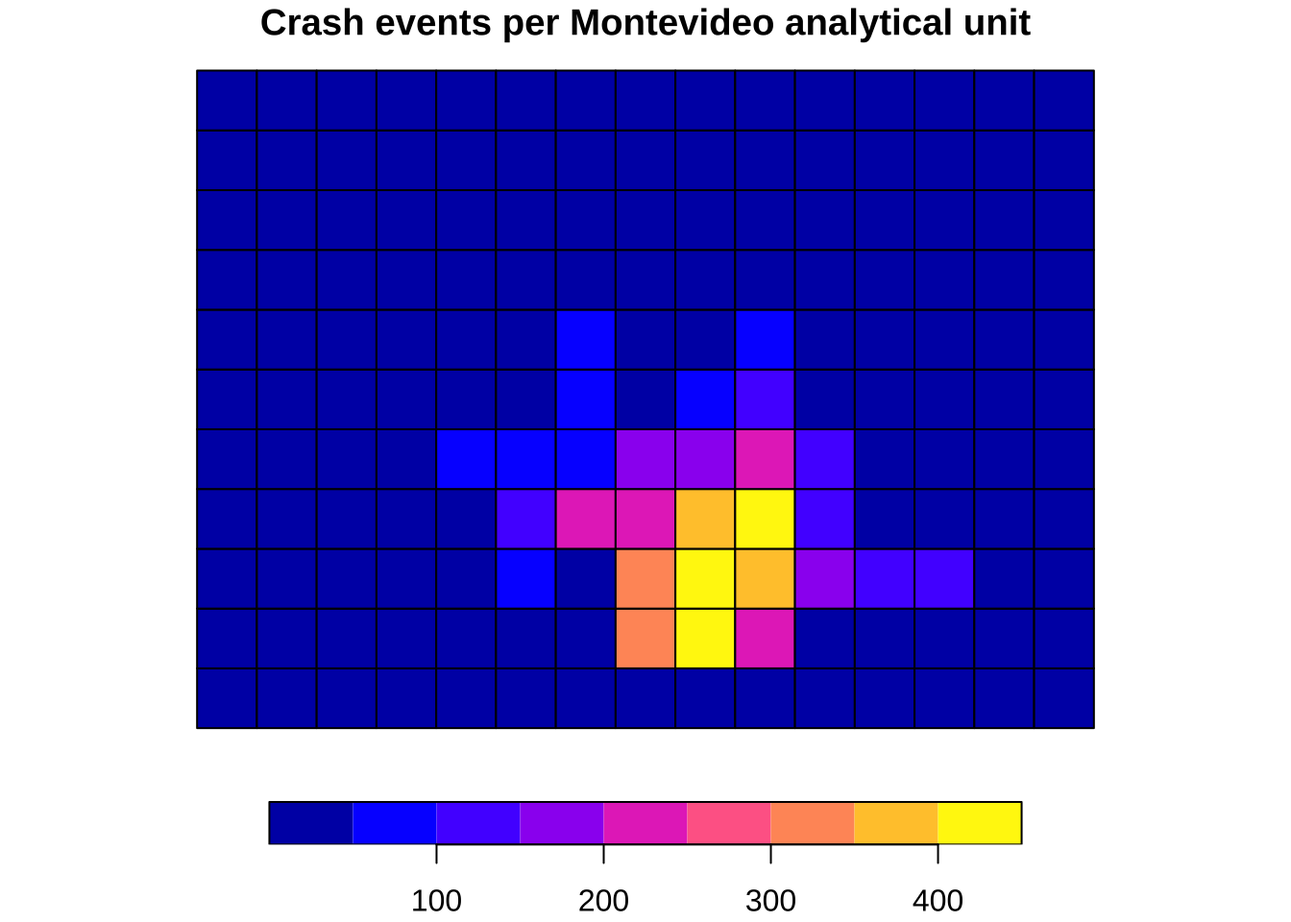
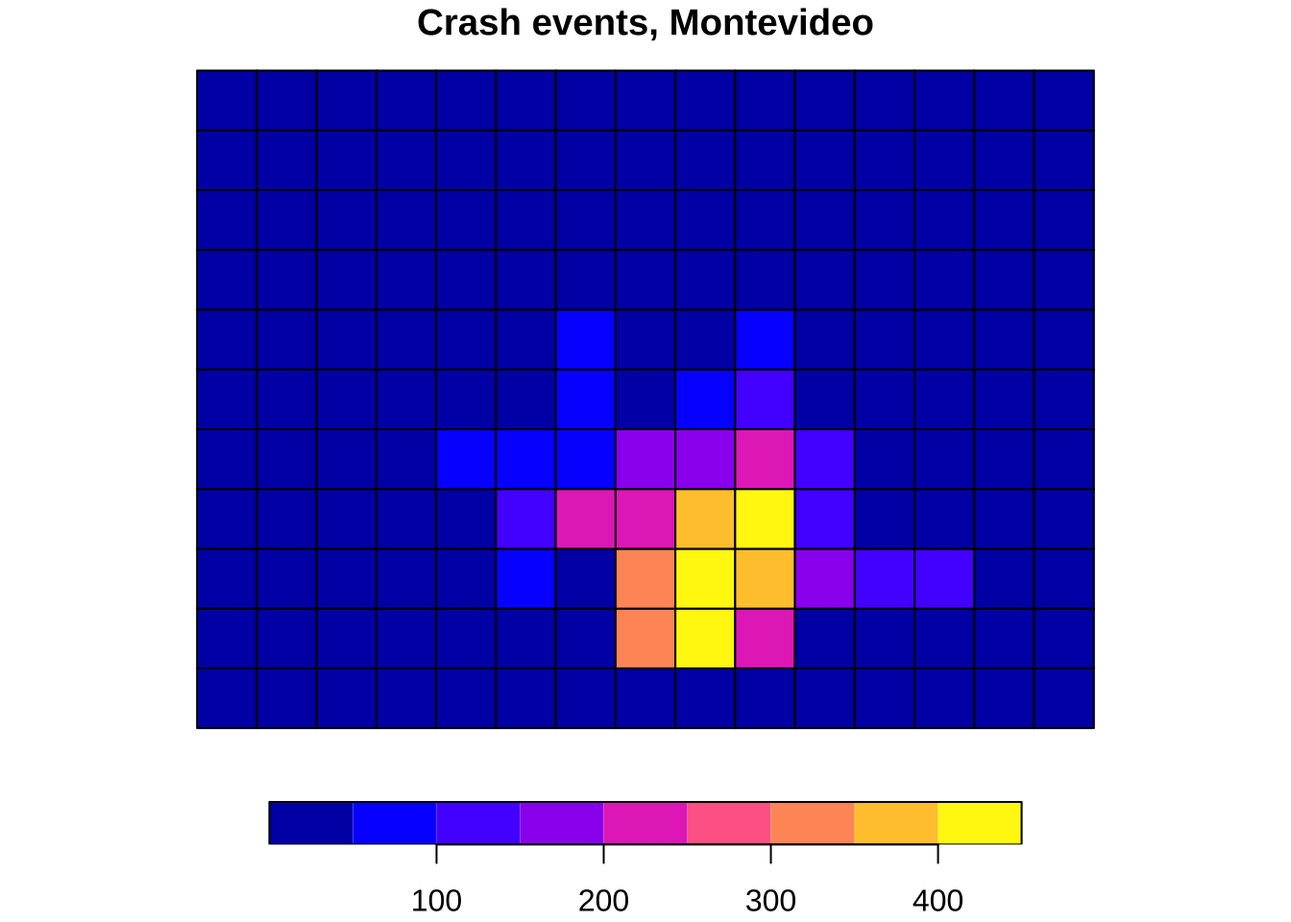
Refresh spatial data wrangling chapter output

Changed region(s): [[0.1875, 0.0, 0.8125, 0.0625]]

diff --git a/docs/02-spatial-data-wrangling.html b/docs/02-spatial-data-wrangling.html
@@ -964,7 +964,7 @@ was `within'
 </div>
 </div>
 <p>This example is deliberately basic. But it introduces the logic behind many later tasks, such as assigning point records to areas, building polygon summaries and preparing mapped indicators. You will also find the same ideas in choropleth preparation, exposure modelling, area interpolation and many forms of spatial smoothing. The exact technique may change, but the workflow of defining a geography, attaching observations and summarising attributes is foundational.</p>
-<p>The choice of unit size still matters. Smaller polygon units reveal more local variation but can create many sparse areas and a noisier pattern. Larger units smooth the data more strongly and may hide local concentration. This is a useful early reminder that spatial wrangling is never only technical. Choices about representation and aggregation shape the patterns that we later describe and explain. The same is true of the attribute we choose to map. Raw crash counts and crashes per kilometre of road are both informative, but they answer slightly different questions.</p>
+<p>The choice of unit size still matters. Smaller polygon units reveal more local variation but can create many sparse areas and a noisier pattern. Larger units smooth the data more strongly and may hide local concentration. This is a useful early reminder that spatial wrangling is never only technical. Choices about representation and aggregation shape the patterns that we later describe and explain. The same is true of the attribute we choose to map. Raw crash counts and crashes per kilometre of road are both informative, but they answer slightly different questions. In the next three examples, we keep the mapped variable fixed as raw crash counts so the comparison is about the mapping systems rather than about a changing indicator.</p>
 </section><section id="spatial-data-mapping" class="level2" data-number="2.12"><h2 data-number="2.12" class="anchored" data-anchor-id="spatial-data-mapping">
 <span class="header-section-number">2.12</span> Spatial data mapping</h2>
 <p>The same spatial object can be mapped at different levels of sophistication. A useful progression in applied work is:</p>
@@ -980,7 +980,7 @@ was `within'
 <span class="header-section-number">2.12.1</span> A quick base plot</h3>
 <p>Base plotting is ideal for first inspection because it is fast and requires little setup. In practical workflows, this matters because many maps are made first to check geometry, extent, missing values or obvious outliers rather than to communicate final results. Quick plotting is therefore part of good analysis, not a lesser version of “real” mapping.</p>
 <div class="cell">
-<div class="code-copy-outer-scaffold"><div class="sourceCode" id="cb58"><pre class="downlit sourceCode r code-with-copy"><code class="sourceCode R"><span><span class="fu"><a href="https://rdrr.io/r/graphics/plot.default.html">plot</a></span><span class="op">(</span><span class="va">analysis_units</span><span class="op">[</span><span class="st">"n_injuries"</span><span class="op">]</span>, key.pos <span class="op">=</span> <span class="fl">1</span>, main <span class="op">=</span> <span class="st">"Crash events per Montevideo analytical unit"</span><span class="op">)</span></span></code></pre></div><button title="Copy to Clipboard" class="code-copy-button"><i class="bi"></i></button></div>
+<div class="code-copy-outer-scaffold"><div class="sourceCode" id="cb58"><pre class="downlit sourceCode r code-with-copy"><code class="sourceCode R"><span><span class="fu"><a href="https://rdrr.io/r/graphics/plot.default.html">plot</a></span><span class="op">(</span><span class="va">analysis_units</span><span class="op">[</span><span class="st">"n_injuries"</span><span class="op">]</span>, key.pos <span class="op">=</span> <span class="fl">1</span>, main <span class="op">=</span> <span class="st">"Crash events, Montevideo"</span><span class="op">)</span></span></code></pre></div><button title="Copy to Clipboard" class="code-copy-button"><i class="bi"></i></button></div>
 <div class="cell-output-display">
 <div>
 <figure class="figure"><p><img src="02-spatial-data-wrangling_files/figure-html/unnamed-chunk-21-1.png" class="img-fluid figure-img" width="672"></p>
@@ -997,10 +997,10 @@ was `within'
 <span></span>
 <span><span class="fu"><a href="https://r-tmap.github.io/tmap/reference/tm_shape.html">tm_shape</a></span><span class="op">(</span><span class="va">analysis_units</span><span class="op">)</span> <span class="op">+</span></span>
 <span>  <span class="fu"><a href="https://r-tmap.github.io/tmap/reference/tm_polygons.html">tm_fill</a></span><span class="op">(</span></span>
-<span>    col <span class="op">=</span> <span class="st">"injuries_per_km"</span>,</span>
+<span>    col <span class="op">=</span> <span class="st">"n_injuries"</span>,</span>
 <span>    palette <span class="op">=</span> <span class="st">"viridis"</span>,</span>
 <span>    style <span class="op">=</span> <span class="st">"cont"</span>,</span>
-<span>    title <span class="op">=</span> <span class="st">"Crashes per km"</span></span>
+<span>    title <span class="op">=</span> <span class="st">"Crash events"</span></span>
 <span>  <span class="op">)</span> <span class="op">+</span></span>
 <span>  <span class="fu"><a href="https://r-tmap.github.io/tmap/reference/tm_polygons.html">tm_borders</a></span><span class="op">(</span>col <span class="op">=</span> <span class="st">"white"</span>, lwd <span class="op">=</span> <span class="fl">0.4</span><span class="op">)</span> <span class="op">+</span></span>
 <span>  <span class="fu"><a href="https://r-tmap.github.io/tmap/reference/tm_layout.html">tm_layout</a></span><span class="op">(</span>frame <span class="op">=</span> <span class="cn">FALSE</span><span class="op">)</span></span></code></pre></div><button title="Copy to Clipboard" class="code-copy-button"><i class="bi"></i></button></div>
@@ -1020,14 +1020,13 @@ was `within'
 <span></span>
 <span><span class="fu"><a href="https://ggplot2.tidyverse.org/reference/ggplot.html">ggplot</a></span><span class="op">(</span><span class="op">)</span> <span class="op">+</span></span>
 <span>  <span class="co"># Fill polygons with a sequential palette from the shared course style</span></span>
-<span>  <span class="fu"><a href="https://ggplot2.tidyverse.org/reference/ggsf.html">geom_sf</a></span><span class="op">(</span>data <span class="op">=</span> <span class="va">analysis_units_ll</span>, <span class="fu"><a href="https://ggplot2.tidyverse.org/reference/aes.html">aes</a></span><span class="op">(</span>fill <span class="op">=</span> <span class="va">injuries_per_km</span><span class="op">)</span>, colour <span class="op">=</span> <span class="cn">NA</span><span class="op">)</span> <span class="op">+</span></span>
+<span>  <span class="fu"><a href="https://ggplot2.tidyverse.org/reference/ggsf.html">geom_sf</a></span><span class="op">(</span>data <span class="op">=</span> <span class="va">analysis_units_ll</span>, <span class="fu"><a href="https://ggplot2.tidyverse.org/reference/aes.html">aes</a></span><span class="op">(</span>fill <span class="op">=</span> <span class="va">n_injuries</span><span class="op">)</span>, colour <span class="op">=</span> <span class="cn">NA</span><span class="op">)</span> <span class="op">+</span></span>
 <span>  <span class="co"># Add the road network to keep the analytical units in local context</span></span>
-<span>  <span class="fu"><a href="https://ggplot2.tidyverse.org/reference/ggsf.html">geom_sf</a></span><span class="op">(</span>data <span class="op">=</span> <span class="va">roads</span>, colour <span class="op">=</span> <span class="st">"grey50"</span>, linewidth <span class="op">=</span> <span class="fl">0.15</span>, alpha <span class="op">=</span> <span class="fl">0.5</span><span class="op">)</span> <span class="op">+</span></span>
+<span>  <span class="fu"><a href="https://ggplot2.tidyverse.org/reference/ggsf.html">geom_sf</a></span><span class="op">(</span>data <span class="op">=</span> <span class="va">roads</span>, colour <span class="op">=</span> <span class="st">"grey50"</span>, linewidth <span class="op">=</span> <span class="fl">0.15</span>, alpha <span class="op">=</span> <span class="fl">0.35</span><span class="op">)</span> <span class="op">+</span></span>
 <span>  <span class="fu"><a href="https://ggplot2.tidyverse.org/reference/ggsf.html">coord_sf</a></span><span class="op">(</span>expand <span class="op">=</span> <span class="cn">FALSE</span><span class="op">)</span> <span class="op">+</span></span>
-<span>  <span class="fu">scale_fill_course_seq_c</span><span class="op">(</span>name <span class="op">=</span> <span class="st">"Crashes per km"</span><span class="op">)</span> <span class="op">+</span></span>
+<span>  <span class="fu">scale_fill_course_seq_c</span><span class="op">(</span>name <span class="op">=</span> <span class="st">"Crash events"</span><span class="op">)</span> <span class="op">+</span></span>
 <span>  <span class="fu"><a href="https://ggplot2.tidyverse.org/reference/labs.html">labs</a></span><span class="op">(</span></span>
-<span>    title <span class="op">=</span> <span class="st">"Montevideo crash events aggregated to analytical units"</span>,</span>
-<span>    subtitle <span class="op">=</span> <span class="st">"Crash counts standardised by local road length"</span></span>
+<span>    title <span class="op">=</span> <span class="st">"Crash events, Montevideo"</span>,</span>
 <span>  <span class="op">)</span> <span class="op">+</span></span>
 <span>  <span class="fu">theme_map_course</span><span class="op">(</span><span class="op">)</span> <span class="op">+</span></span>
 <span>  <span class="fu"><a href="https://ggplot2.tidyverse.org/reference/theme.html">theme</a></span><span class="op">(</span></span>
@@ -2024,7 +2023,7 @@ Lovelace, Robin, Jakub Nowosad, and Jannes Muenchow. 2019. <em>Geocomputation wi
 <span id="cb61-521"><a href="#cb61-521" aria-hidden="true" tabindex="-1"></a></span>
 <span id="cb61-522"><a href="#cb61-522" aria-hidden="true" tabindex="-1"></a>This example is deliberately basic. But it introduces the logic behind many later tasks, such as assigning point records to areas, building polygon summaries and preparing mapped indicators. You will also find the same ideas in choropleth preparation, exposure modelling, area interpolation and many forms of spatial smoothing. The exact technique may change, but the workflow of defining a geography, attaching observations and summarising attributes is foundational.</span>
 <span id="cb61-523"><a href="#cb61-523" aria-hidden="true" tabindex="-1"></a></span>
-<span id="cb61-524"><a href="#cb61-524" aria-hidden="true" tabindex="-1"></a>The choice of unit size still matters. Smaller polygon units reveal more local variation but can create many sparse areas and a noisier pattern. Larger units smooth the data more strongly and may hide local concentration. This is a useful early reminder that spatial wrangling is never only technical. Choices about representation and aggregation shape the patterns that we later describe and explain. The same is true of the attribute we choose to map. Raw crash counts and crashes per kilometre of road are both informative, but they answer slightly different questions.</span>
+<span id="cb61-524"><a href="#cb61-524" aria-hidden="true" tabindex="-1"></a>The choice of unit size still matters. Smaller polygon units reveal more local variation but can create many sparse areas and a noisier pattern. Larger units smooth the data more strongly and may hide local concentration. This is a useful early reminder that spatial wrangling is never only technical. Choices about representation and aggregation shape the patterns that we later describe and explain. The same is true of the attribute we choose to map. Raw crash counts and crashes per kilometre of road are both informative, but they answer slightly different questions. In the next three examples, we keep the mapped variable fixed as raw crash counts so the comparison is about the mapping systems rather than about a changing indicator.</span>
 <span id="cb61-525"><a href="#cb61-525" aria-hidden="true" tabindex="-1"></a></span>
 <span id="cb61-526"><a href="#cb61-526" aria-hidden="true" tabindex="-1"></a><span class="fu">## Spatial data mapping</span></span>
 <span id="cb61-527"><a href="#cb61-527" aria-hidden="true" tabindex="-1"></a></span>
@@ -2039,7 +2038,7 @@ Lovelace, Robin, Jakub Nowosad, and Jannes Muenchow. 2019. <em>Geocomputation wi
 <span id="cb61-536"><a href="#cb61-536" aria-hidden="true" tabindex="-1"></a>Base plotting is ideal for first inspection because it is fast and requires little setup. In practical workflows, this matters because many maps are made first to check geometry, extent, missing values or obvious outliers rather than to communicate final results. Quick plotting is therefore part of good analysis, not a lesser version of “real” mapping.</span>
 <span id="cb61-537"><a href="#cb61-537" aria-hidden="true" tabindex="-1"></a></span>
 <span id="cb61-540"><a href="#cb61-540" aria-hidden="true" tabindex="-1"></a><span class="in">```{r}</span></span>
-<span id="cb61-541"><a href="#cb61-541" aria-hidden="true" tabindex="-1"></a><span class="fu">plot</span>(analysis_units[<span class="st">"n_injuries"</span>], <span class="at">key.pos =</span> <span class="dv">1</span>, <span class="at">main =</span> <span class="st">"Crash events per Montevideo analytical unit"</span>)</span>
+<span id="cb61-541"><a href="#cb61-541" aria-hidden="true" tabindex="-1"></a><span class="fu">plot</span>(analysis_units[<span class="st">"n_injuries"</span>], <span class="at">key.pos =</span> <span class="dv">1</span>, <span class="at">main =</span> <span class="st">"Crash events, Montevideo"</span>)</span>
 <span id="cb61-542"><a href="#cb61-542" aria-hidden="true" tabindex="-1"></a><span class="in">```</span></span>
 <span id="cb61-543"><a href="#cb61-543" aria-hidden="true" tabindex="-1"></a></span>
 <span id="cb61-544"><a href="#cb61-544" aria-hidden="true" tabindex="-1"></a><span class="fu">### A thematic map with `tmap`</span></span>
@@ -2051,10 +2050,10 @@ Lovelace, Robin, Jakub Nowosad, and Jannes Muenchow. 2019. <em>Geocomputation wi
 <span id="cb61-552"><a href="#cb61-552" aria-hidden="true" tabindex="-1"></a></span>
 <span id="cb61-553"><a href="#cb61-553" aria-hidden="true" tabindex="-1"></a><span class="fu">tm_shape</span>(analysis_units) <span class="sc">+</span></span>
 <span id="cb61-554"><a href="#cb61-554" aria-hidden="true" tabindex="-1"></a>  <span class="fu">tm_fill</span>(</span>
-<span id="cb61-555"><a href="#cb61-555" aria-hidden="true" tabindex="-1"></a>    <span class="at">col =</span> <span class="st">"injuries_per_km"</span>,</span>
+<span id="cb61-555"><a href="#cb61-555" aria-hidden="true" tabindex="-1"></a>    <span class="at">col =</span> <span class="st">"n_injuries"</span>,</span>
 <span id="cb61-556"><a href="#cb61-556" aria-hidden="true" tabindex="-1"></a>    <span class="at">palette =</span> <span class="st">"viridis"</span>,</span>
 <span id="cb61-557"><a href="#cb61-557" aria-hidden="true" tabindex="-1"></a>    <span class="at">style =</span> <span class="st">"cont"</span>,</span>
-<span id="cb61-558"><a href="#cb61-558" aria-hidden="true" tabindex="-1"></a>    <span class="at">title =</span> <span class="st">"Crashes per km"</span></span>
+<span id="cb61-558"><a href="#cb61-558" aria-hidden="true" tabindex="-1"></a>    <span class="at">title =</span> <span class="st">"Crash events"</span></span>
 <span id="cb61-559"><a href="#cb61-559" aria-hidden="true" tabindex="-1"></a>  ) <span class="sc">+</span></span>
 <span id="cb61-560"><a href="#cb61-560" aria-hidden="true" tabindex="-1"></a>  <span class="fu">tm_borders</span>(<span class="at">col =</span> <span class="st">"white"</span>, <span class="at">lwd =</span> <span class="fl">0.4</span>) <span class="sc">+</span></span>
 <span id="cb61-561"><a href="#cb61-561" aria-hidden="true" tabindex="-1"></a>  <span class="fu">tm_layout</span>(<span class="at">frame =</span> <span class="cn">FALSE</span>)</span>
@@ -2069,50 +2068,49 @@ Lovelace, Robin, Jakub Nowosad, and Jannes Muenchow. 2019. <em>Geocomputation wi
 <span id="cb61-572"><a href="#cb61-572" aria-hidden="true" tabindex="-1"></a></span>
 <span id="cb61-573"><a href="#cb61-573" aria-hidden="true" tabindex="-1"></a><span class="fu">ggplot</span>() <span class="sc">+</span></span>
 <span id="cb61-574"><a href="#cb61-574" aria-hidden="true" tabindex="-1"></a>  <span class="co"># Fill polygons with a sequential palette from the shared course style</span></span>
-<span id="cb61-575"><a href="#cb61-575" aria-hidden="true" tabindex="-1"></a>  <span class="fu">geom_sf</span>(<span class="at">data =</span> analysis_units_ll, <span class="fu">aes</span>(<span class="at">fill =</span> injuries_per_km), <span class="at">colour =</span> <span class="cn">NA</span>) <span class="sc">+</span></span>
+<span id="cb61-575"><a href="#cb61-575" aria-hidden="true" tabindex="-1"></a>  <span class="fu">geom_sf</span>(<span class="at">data =</span> analysis_units_ll, <span class="fu">aes</span>(<span class="at">fill =</span> n_injuries), <span class="at">colour =</span> <span class="cn">NA</span>) <span class="sc">+</span></span>
 <span id="cb61-576"><a href="#cb61-576" aria-hidden="true" tabindex="-1"></a>  <span class="co"># Add the road network to keep the analytical units in local context</span></span>
-<span id="cb61-577"><a href="#cb61-577" aria-hidden="true" tabindex="-1"></a>  <span class="fu">geom_sf</span>(<span class="at">data =</span> roads, <span class="at">colour =</span> <span class="st">"grey50"</span>, <span class="at">linewidth =</span> <span class="fl">0.15</span>, <span class="at">alpha =</span> <span class="fl">0.5</span>) <span class="sc">+</span></span>
+<span id="cb61-577"><a href="#cb61-577" aria-hidden="true" tabindex="-1"></a>  <span class="fu">geom_sf</span>(<span class="at">data =</span> roads, <span class="at">colour =</span> <span class="st">"grey50"</span>, <span class="at">linewidth =</span> <span class="fl">0.15</span>, <span class="at">alpha =</span> <span class="fl">0.35</span>) <span class="sc">+</span></span>
 <span id="cb61-578"><a href="#cb61-578" aria-hidden="true" tabindex="-1"></a>  <span class="fu">coord_sf</span>(<span class="at">expand =</span> <span class="cn">FALSE</span>) <span class="sc">+</span></span>
-<span id="cb61-579"><a href="#cb61-579" aria-hidden="true" tabindex="-1"></a>  <span class="fu">scale_fill_course_seq_c</span>(<span class="at">name =</span> <span class="st">"Crashes per km"</span>) <span class="sc">+</span></span>
+<span id="cb61-579"><a href="#cb61-579" aria-hidden="true" tabindex="-1"></a>  <span class="fu">scale_fill_course_seq_c</span>(<span class="at">name =</span> <span class="st">"Crash events"</span>) <span class="sc">+</span></span>
 <span id="cb61-580"><a href="#cb61-580" aria-hidden="true" tabindex="-1"></a>  <span class="fu">labs</span>(</span>
-<span id="cb61-581"><a href="#cb61-581" aria-hidden="true" tabindex="-1"></a>    <span class="at">title =</span> <span class="st">"Montevideo crash events aggregated to analytical units"</span>,</span>
-<span id="cb61-582"><a href="#cb61-582" aria-hidden="true" tabindex="-1"></a>    <span class="at">subtitle =</span> <span class="st">"Crash counts standardised by local road length"</span></span>
-<span id="cb61-583"><a href="#cb61-583" aria-hidden="true" tabindex="-1"></a>  ) <span class="sc">+</span></span>
-<span id="cb61-584"><a href="#cb61-584" aria-hidden="true" tabindex="-1"></a>  <span class="fu">theme_map_course</span>() <span class="sc">+</span></span>
-<span id="cb61-585"><a href="#cb61-585" aria-hidden="true" tabindex="-1"></a>  <span class="fu">theme</span>(</span>
-<span id="cb61-586"><a href="#cb61-586" aria-hidden="true" tabindex="-1"></a>    <span class="at">legend.position =</span> <span class="st">"right"</span></span>
-<span id="cb61-587"><a href="#cb61-587" aria-hidden="true" tabindex="-1"></a>  )</span>
-<span id="cb61-588"><a href="#cb61-588" aria-hidden="true" tabindex="-1"></a><span class="in">```</span></span>
-<span id="cb61-589"><a href="#cb61-589" aria-hidden="true" tabindex="-1"></a></span>
-<span id="cb61-590"><a href="#cb61-590" aria-hidden="true" tabindex="-1"></a>An important point to note is that spatial data wrangling and mapping are tightly connected. Once geometry and CRS are handled correctly, the same <span class="in">`sf`</span> object can support quick checks, exploratory analysis and more polished communication. Learning when to move from one level of mapping to another is part of becoming an effective spatial analyst, because different stages of a project demand different balances between speed, clarity and control.</span>
-<span id="cb61-591"><a href="#cb61-591" aria-hidden="true" tabindex="-1"></a></span>
-<span id="cb61-592"><a href="#cb61-592" aria-hidden="true" tabindex="-1"></a>You may also find that each mapping approach opens onto a slightly different set of skills. Base plotting encourages quick exploratory thinking, <span class="in">`tmap`</span> makes thematic cartography especially accessible, and <span class="in">`ggplot2`</span> connects spatial work to a wider grammar of visualisation. Developing comfort across all three is often more valuable than mastering only one.</span>
-<span id="cb61-593"><a href="#cb61-593" aria-hidden="true" tabindex="-1"></a></span>
-<span id="cb61-594"><a href="#cb61-594" aria-hidden="true" tabindex="-1"></a><span class="fu">## Recap</span></span>
-<span id="cb61-595"><a href="#cb61-595" aria-hidden="true" tabindex="-1"></a></span>
-<span id="cb61-596"><a href="#cb61-596" aria-hidden="true" tabindex="-1"></a>This chapter has introduced the core spatial workflow used throughout the course:</span>
-<span id="cb61-597"><a href="#cb61-597" aria-hidden="true" tabindex="-1"></a></span>
-<span id="cb61-598"><a href="#cb61-598" aria-hidden="true" tabindex="-1"></a><span class="ss">-   </span>read spatial and non-spatial data</span>
-<span id="cb61-599"><a href="#cb61-599" aria-hidden="true" tabindex="-1"></a><span class="ss">-   </span>convert tabular coordinates into simple features</span>
-<span id="cb61-600"><a href="#cb61-600" aria-hidden="true" tabindex="-1"></a><span class="ss">-   </span>inspect geometry type, attributes and CRS</span>
-<span id="cb61-601"><a href="#cb61-601" aria-hidden="true" tabindex="-1"></a><span class="ss">-   </span>distinguish the attribute side of the data from the geometry side</span>
-<span id="cb61-602"><a href="#cb61-602" aria-hidden="true" tabindex="-1"></a><span class="ss">-   </span>transform CRSs before overlay or measurement</span>
-<span id="cb61-603"><a href="#cb61-603" aria-hidden="true" tabindex="-1"></a><span class="ss">-   </span>validate geometry before repeated use</span>
-<span id="cb61-604"><a href="#cb61-604" aria-hidden="true" tabindex="-1"></a><span class="ss">-   </span>combine attribute wrangling with spatial joins and aggregation</span>
-<span id="cb61-605"><a href="#cb61-605" aria-hidden="true" tabindex="-1"></a><span class="ss">-   </span>connect point, line and polygon data within a single local case</span>
-<span id="cb61-606"><a href="#cb61-606" aria-hidden="true" tabindex="-1"></a><span class="ss">-   </span>produce basic maps at increasing levels of control</span>
-<span id="cb61-607"><a href="#cb61-607" aria-hidden="true" tabindex="-1"></a></span>
-<span id="cb61-608"><a href="#cb61-608" aria-hidden="true" tabindex="-1"></a>These are foundational skills. Later chapters build on them when we move to point patterns, flows, spatial dependence and spatial heterogeneity. In that sense, this chapter establishes the conceptual and practical habits that make later modelling choices easier to interpret and easier to defend.</span>
-<span id="cb61-609"><a href="#cb61-609" aria-hidden="true" tabindex="-1"></a></span>
-<span id="cb61-610"><a href="#cb61-610" aria-hidden="true" tabindex="-1"></a>There are several productive follow-up directions from the material in this chapter. One is to experiment with alternative spatial units by changing the size and shape of the Montevideo analytical polygons. Another is to compare projected CRSs and think about why one may be more appropriate than another for a given country or research question. A third is to practice moving back and forth between attribute summaries and spatial summaries, since that rhythm is one of the recurring features of real spatial analysis.</span>
-<span id="cb61-611"><a href="#cb61-611" aria-hidden="true" tabindex="-1"></a></span>
-<span id="cb61-612"><a href="#cb61-612" aria-hidden="true" tabindex="-1"></a><span class="fu">## Tasks</span></span>
-<span id="cb61-613"><a href="#cb61-613" aria-hidden="true" tabindex="-1"></a></span>
-<span id="cb61-614"><a href="#cb61-614" aria-hidden="true" tabindex="-1"></a><span class="ss">1.  </span>Use <span class="in">`st_drop_geometry()`</span> and <span class="in">`count()`</span> to identify the most common <span class="in">`tipo.de.vehiculo`</span> values in the crash-events table.</span>
-<span id="cb61-615"><a href="#cb61-615" aria-hidden="true" tabindex="-1"></a><span class="ss">2.  </span>Create a new time-of-day grouping with your own cut-points and compare it with the one used above.</span>
-<span id="cb61-616"><a href="#cb61-616" aria-hidden="true" tabindex="-1"></a><span class="ss">3.  </span>Change the analytical-unit <span class="in">`cellsize`</span> and see how the mapped pattern changes. What does this suggest about scale and aggregation?</span>
-<span id="cb61-617"><a href="#cb61-617" aria-hidden="true" tabindex="-1"></a><span class="ss">4.  </span>Modify the <span class="in">`ggplot2`</span> map so that crash events are shown as points on top of the polygon units.</span>
-<span id="cb61-618"><a href="#cb61-618" aria-hidden="true" tabindex="-1"></a><span class="ss">5.  </span>Create a second polygon-based representation using a different unit size and compare it with the current analytical units.</span>
+<span id="cb61-581"><a href="#cb61-581" aria-hidden="true" tabindex="-1"></a>    <span class="at">title =</span> <span class="st">"Crash events, Montevideo"</span>,</span>
+<span id="cb61-582"><a href="#cb61-582" aria-hidden="true" tabindex="-1"></a>  ) <span class="sc">+</span></span>
+<span id="cb61-583"><a href="#cb61-583" aria-hidden="true" tabindex="-1"></a>  <span class="fu">theme_map_course</span>() <span class="sc">+</span></span>
+<span id="cb61-584"><a href="#cb61-584" aria-hidden="true" tabindex="-1"></a>  <span class="fu">theme</span>(</span>
+<span id="cb61-585"><a href="#cb61-585" aria-hidden="true" tabindex="-1"></a>    <span class="at">legend.position =</span> <span class="st">"right"</span></span>
+<span id="cb61-586"><a href="#cb61-586" aria-hidden="true" tabindex="-1"></a>  )</span>
+<span id="cb61-587"><a href="#cb61-587" aria-hidden="true" tabindex="-1"></a><span class="in">```</span></span>
+<span id="cb61-588"><a href="#cb61-588" aria-hidden="true" tabindex="-1"></a></span>
+<span id="cb61-589"><a href="#cb61-589" aria-hidden="true" tabindex="-1"></a>An important point to note is that spatial data wrangling and mapping are tightly connected. Once geometry and CRS are handled correctly, the same <span class="in">`sf`</span> object can support quick checks, exploratory analysis and more polished communication. Learning when to move from one level of mapping to another is part of becoming an effective spatial analyst, because different stages of a project demand different balances between speed, clarity and control.</span>
+<span id="cb61-590"><a href="#cb61-590" aria-hidden="true" tabindex="-1"></a></span>
+<span id="cb61-591"><a href="#cb61-591" aria-hidden="true" tabindex="-1"></a>You may also find that each mapping approach opens onto a slightly different set of skills. Base plotting encourages quick exploratory thinking, <span class="in">`tmap`</span> makes thematic cartography especially accessible, and <span class="in">`ggplot2`</span> connects spatial work to a wider grammar of visualisation. Developing comfort across all three is often more valuable than mastering only one.</span>
+<span id="cb61-592"><a href="#cb61-592" aria-hidden="true" tabindex="-1"></a></span>
+<span id="cb61-593"><a href="#cb61-593" aria-hidden="true" tabindex="-1"></a><span class="fu">## Recap</span></span>
+<span id="cb61-594"><a href="#cb61-594" aria-hidden="true" tabindex="-1"></a></span>
+<span id="cb61-595"><a href="#cb61-595" aria-hidden="true" tabindex="-1"></a>This chapter has introduced the core spatial workflow used throughout the course:</span>
+<span id="cb61-596"><a href="#cb61-596" aria-hidden="true" tabindex="-1"></a></span>
+<span id="cb61-597"><a href="#cb61-597" aria-hidden="true" tabindex="-1"></a><span class="ss">-   </span>read spatial and non-spatial data</span>
+<span id="cb61-598"><a href="#cb61-598" aria-hidden="true" tabindex="-1"></a><span class="ss">-   </span>convert tabular coordinates into simple features</span>
+<span id="cb61-599"><a href="#cb61-599" aria-hidden="true" tabindex="-1"></a><span class="ss">-   </span>inspect geometry type, attributes and CRS</span>
+<span id="cb61-600"><a href="#cb61-600" aria-hidden="true" tabindex="-1"></a><span class="ss">-   </span>distinguish the attribute side of the data from the geometry side</span>
+<span id="cb61-601"><a href="#cb61-601" aria-hidden="true" tabindex="-1"></a><span class="ss">-   </span>transform CRSs before overlay or measurement</span>
+<span id="cb61-602"><a href="#cb61-602" aria-hidden="true" tabindex="-1"></a><span class="ss">-   </span>validate geometry before repeated use</span>
+<span id="cb61-603"><a href="#cb61-603" aria-hidden="true" tabindex="-1"></a><span class="ss">-   </span>combine attribute wrangling with spatial joins and aggregation</span>
+<span id="cb61-604"><a href="#cb61-604" aria-hidden="true" tabindex="-1"></a><span class="ss">-   </span>connect point, line and polygon data within a single local case</span>
+<span id="cb61-605"><a href="#cb61-605" aria-hidden="true" tabindex="-1"></a><span class="ss">-   </span>produce basic maps at increasing levels of control</span>
+<span id="cb61-606"><a href="#cb61-606" aria-hidden="true" tabindex="-1"></a></span>
+<span id="cb61-607"><a href="#cb61-607" aria-hidden="true" tabindex="-1"></a>These are foundational skills. Later chapters build on them when we move to point patterns, flows, spatial dependence and spatial heterogeneity. In that sense, this chapter establishes the conceptual and practical habits that make later modelling choices easier to interpret and easier to defend.</span>
+<span id="cb61-608"><a href="#cb61-608" aria-hidden="true" tabindex="-1"></a></span>
+<span id="cb61-609"><a href="#cb61-609" aria-hidden="true" tabindex="-1"></a>There are several productive follow-up directions from the material in this chapter. One is to experiment with alternative spatial units by changing the size and shape of the Montevideo analytical polygons. Another is to compare projected CRSs and think about why one may be more appropriate than another for a given country or research question. A third is to practice moving back and forth between attribute summaries and spatial summaries, since that rhythm is one of the recurring features of real spatial analysis.</span>
+<span id="cb61-610"><a href="#cb61-610" aria-hidden="true" tabindex="-1"></a></span>
+<span id="cb61-611"><a href="#cb61-611" aria-hidden="true" tabindex="-1"></a><span class="fu">## Tasks</span></span>
+<span id="cb61-612"><a href="#cb61-612" aria-hidden="true" tabindex="-1"></a></span>
+<span id="cb61-613"><a href="#cb61-613" aria-hidden="true" tabindex="-1"></a><span class="ss">1.  </span>Use <span class="in">`st_drop_geometry()`</span> and <span class="in">`count()`</span> to identify the most common <span class="in">`tipo.de.vehiculo`</span> values in the crash-events table.</span>
+<span id="cb61-614"><a href="#cb61-614" aria-hidden="true" tabindex="-1"></a><span class="ss">2.  </span>Create a new time-of-day grouping with your own cut-points and compare it with the one used above.</span>
+<span id="cb61-615"><a href="#cb61-615" aria-hidden="true" tabindex="-1"></a><span class="ss">3.  </span>Change the analytical-unit <span class="in">`cellsize`</span> and see how the mapped pattern changes. What does this suggest about scale and aggregation?</span>
+<span id="cb61-616"><a href="#cb61-616" aria-hidden="true" tabindex="-1"></a><span class="ss">4.  </span>Modify the <span class="in">`ggplot2`</span> map so that crash events are shown as points on top of the polygon units.</span>
+<span id="cb61-617"><a href="#cb61-617" aria-hidden="true" tabindex="-1"></a><span class="ss">5.  </span>Create a second polygon-based representation using a different unit size and compare it with the current analytical units.</span>
 </code></pre></div><button title="Copy to Clipboard" class="code-copy-button" data-in-quarto-modal=""><i class="bi"></i></button></div>
 </div></div></div></div></div>
 </div> <!-- /content -->
